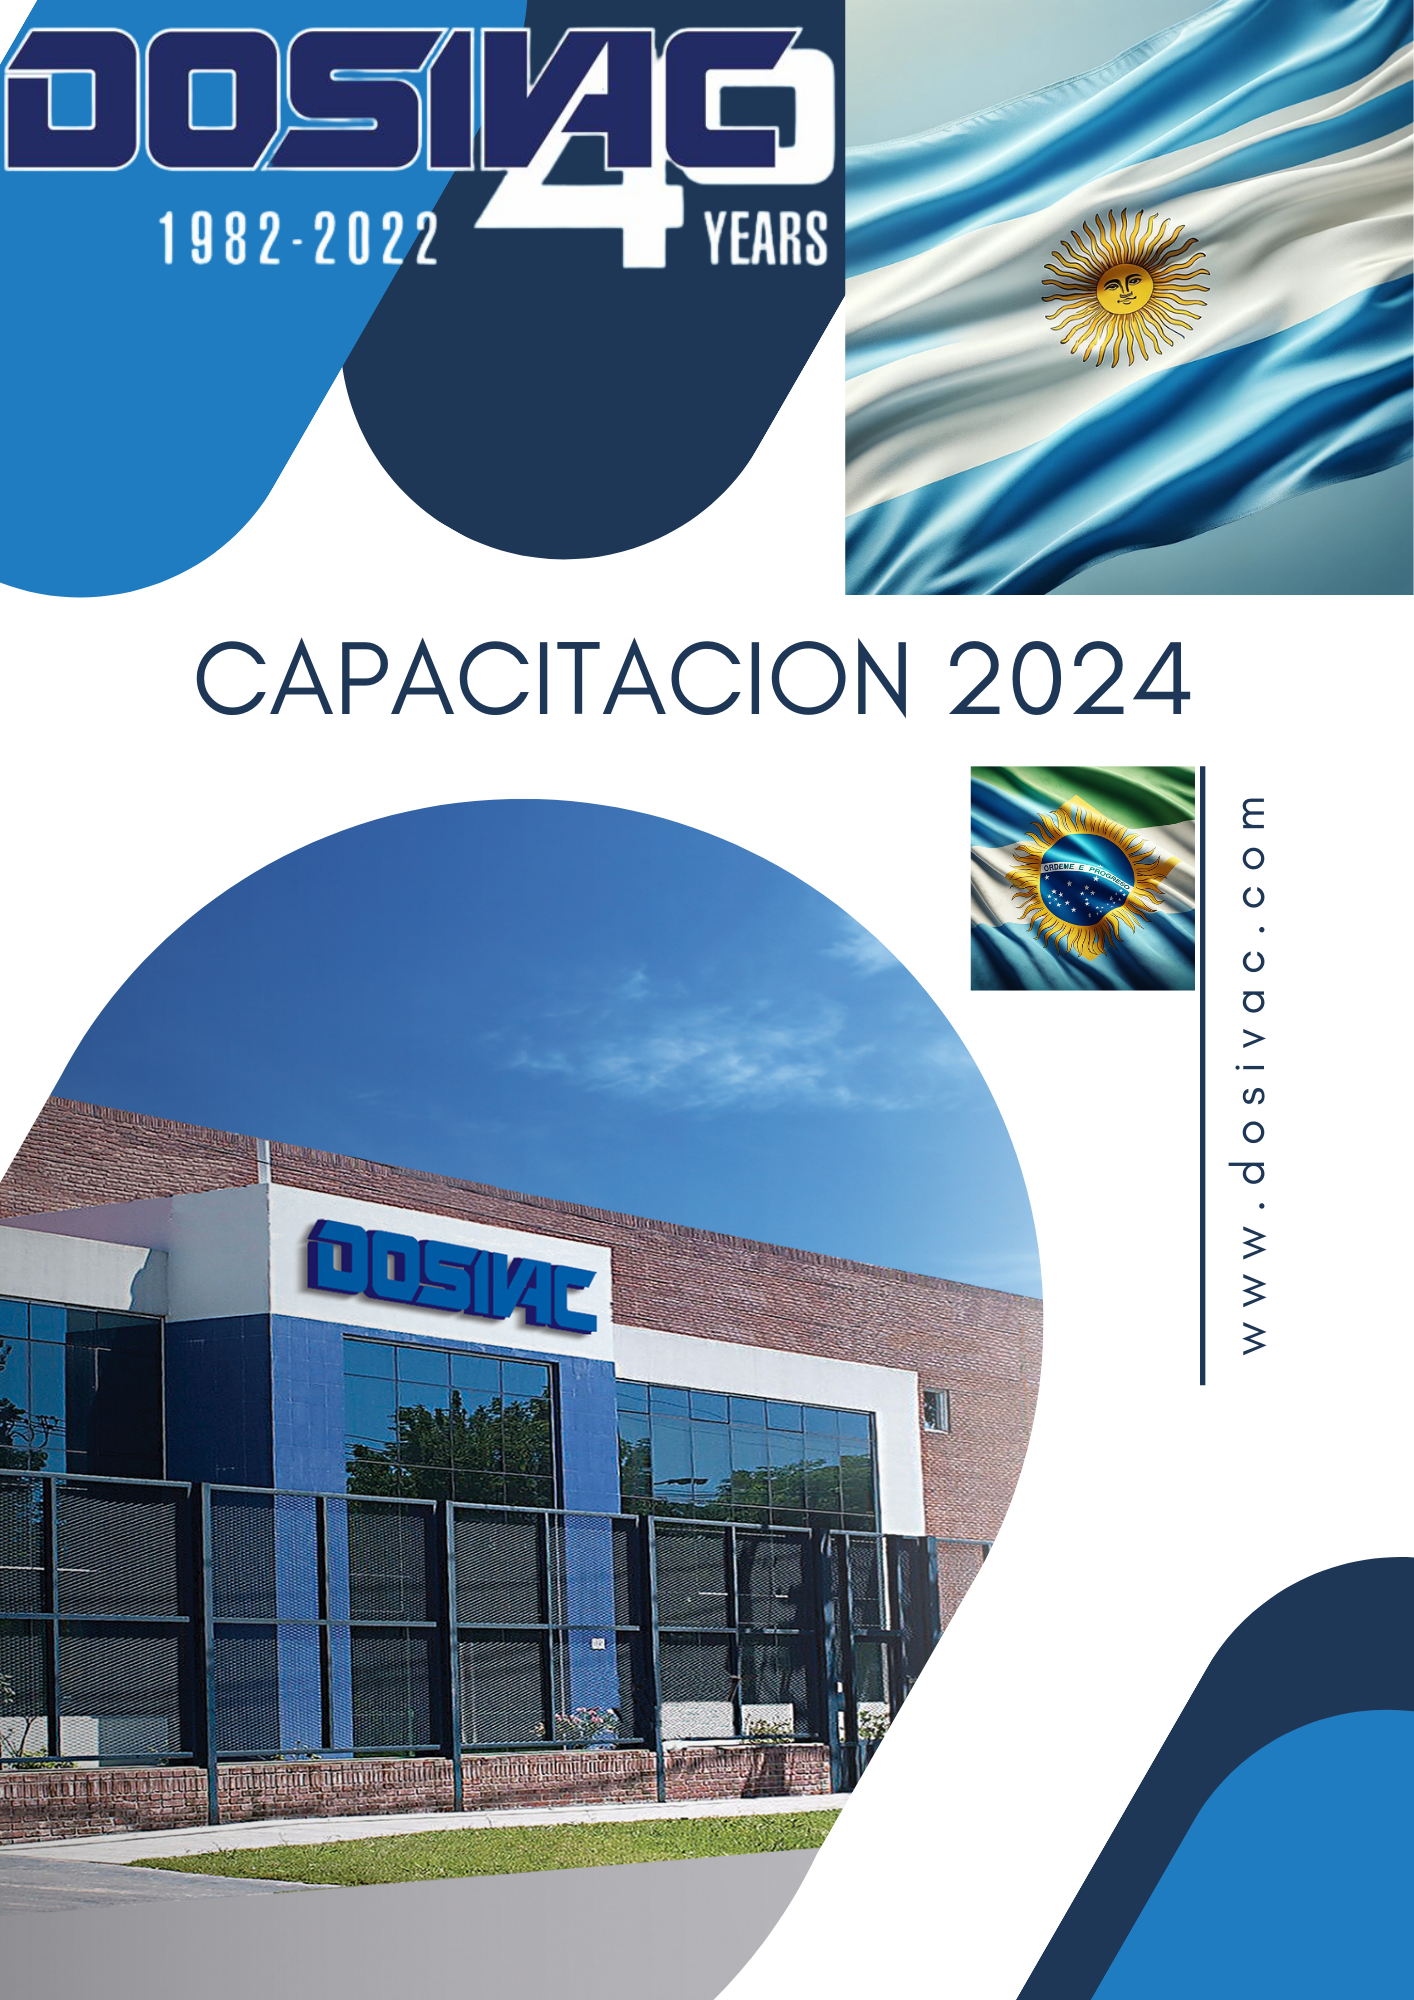
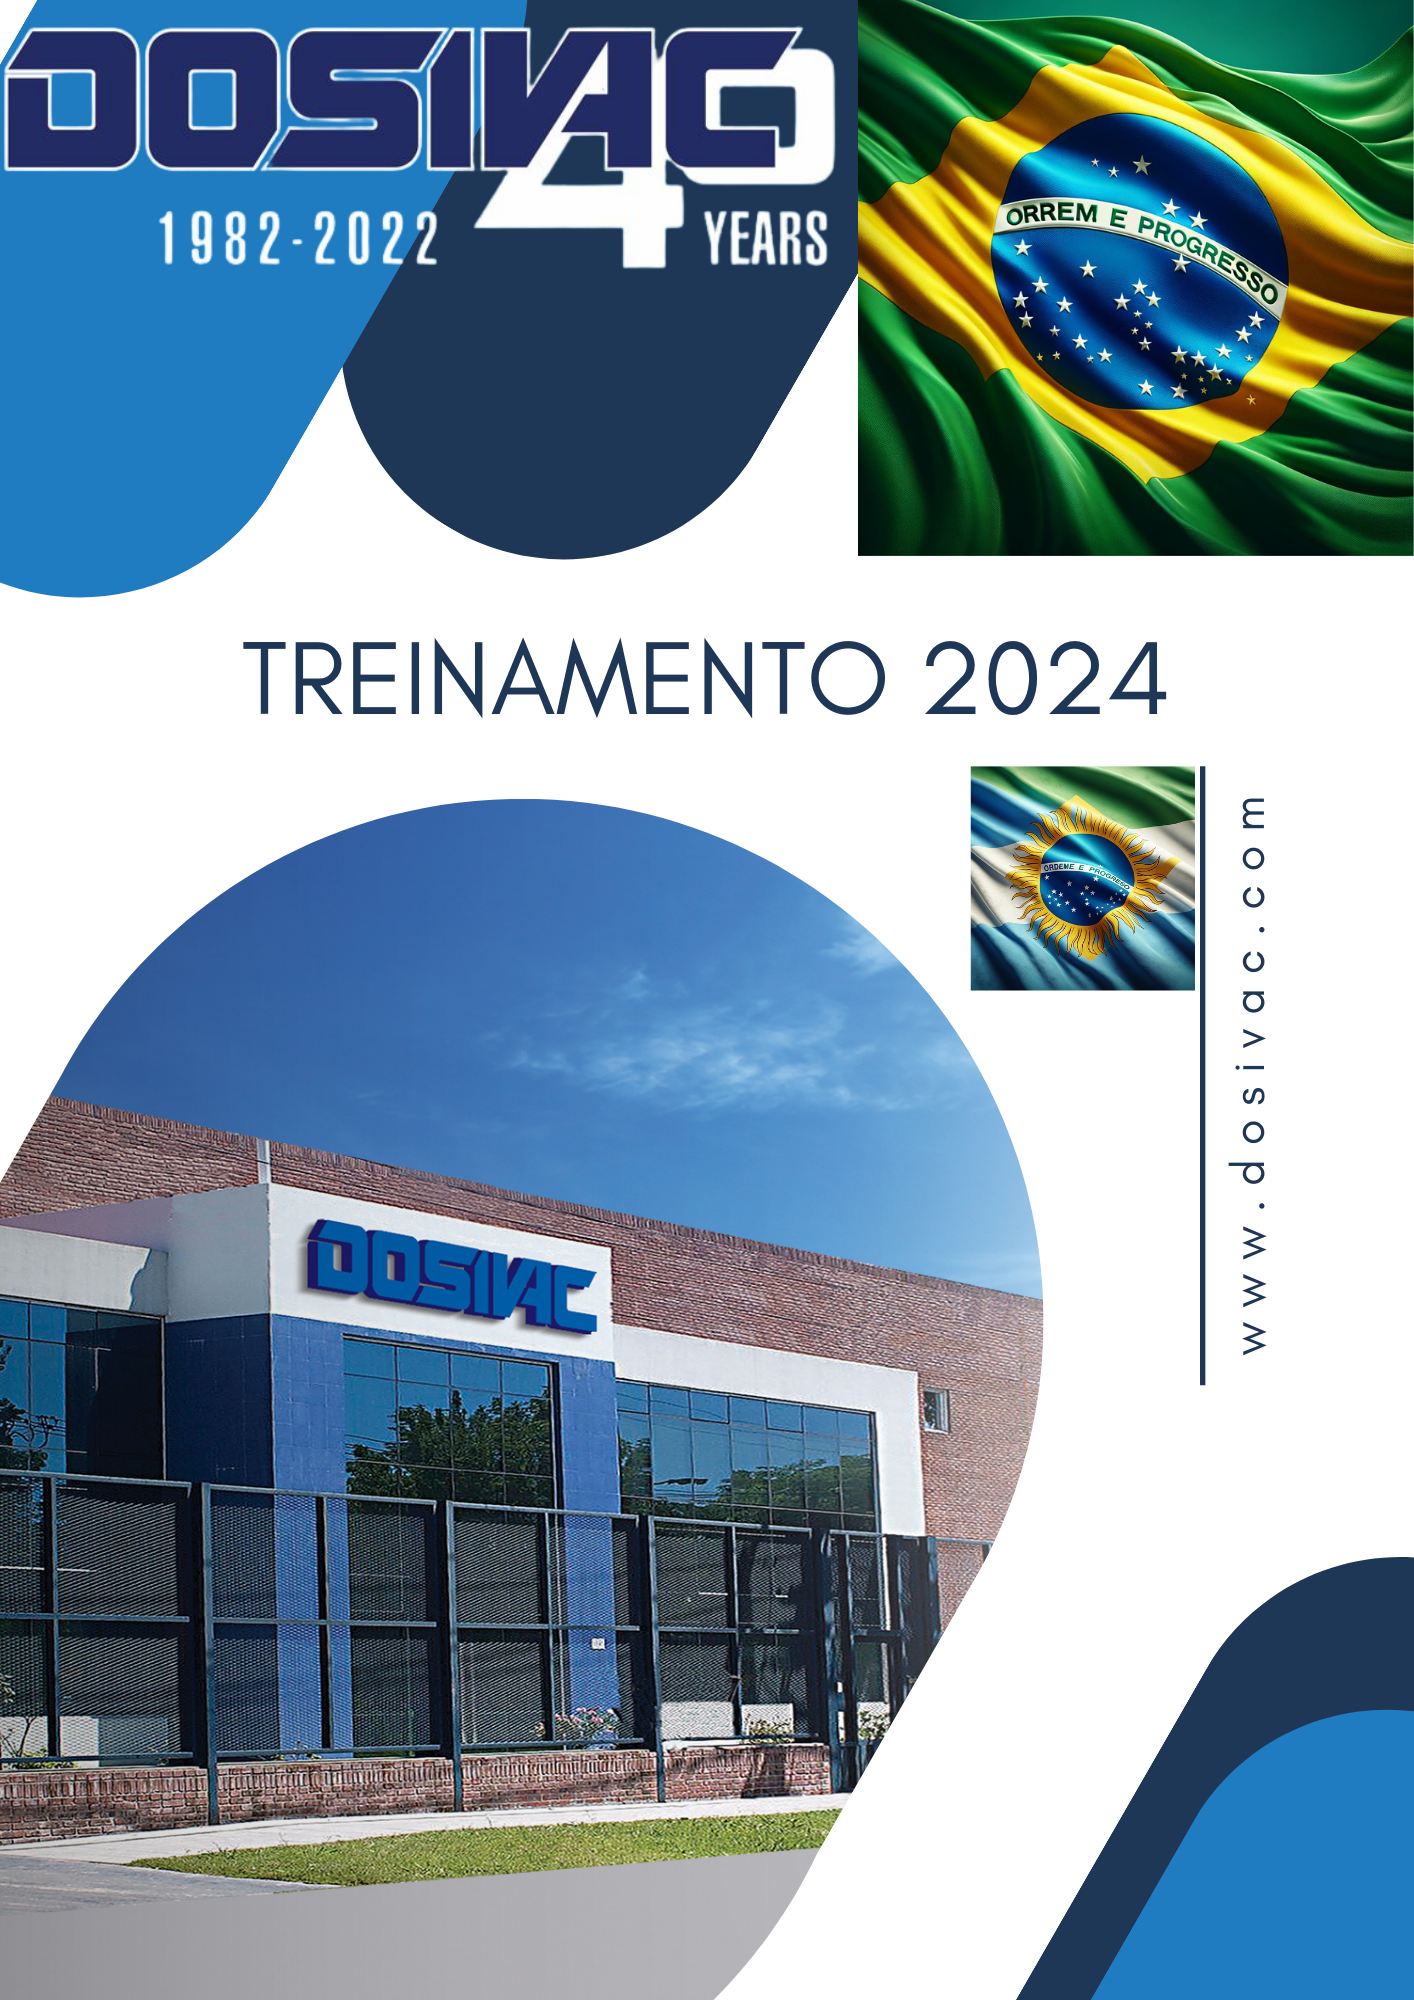
agrego traducción al portuges

Changed region(s): [[0.1245, 0.0, 1.0, 0.372]]

diff --git a/index.html b/index.html
@@ -162,7 +162,7 @@ function loadApp() {
 
 			// The number of pages
 
-			pages: 26,
+			pages: 51,
 
 			// Events
 
